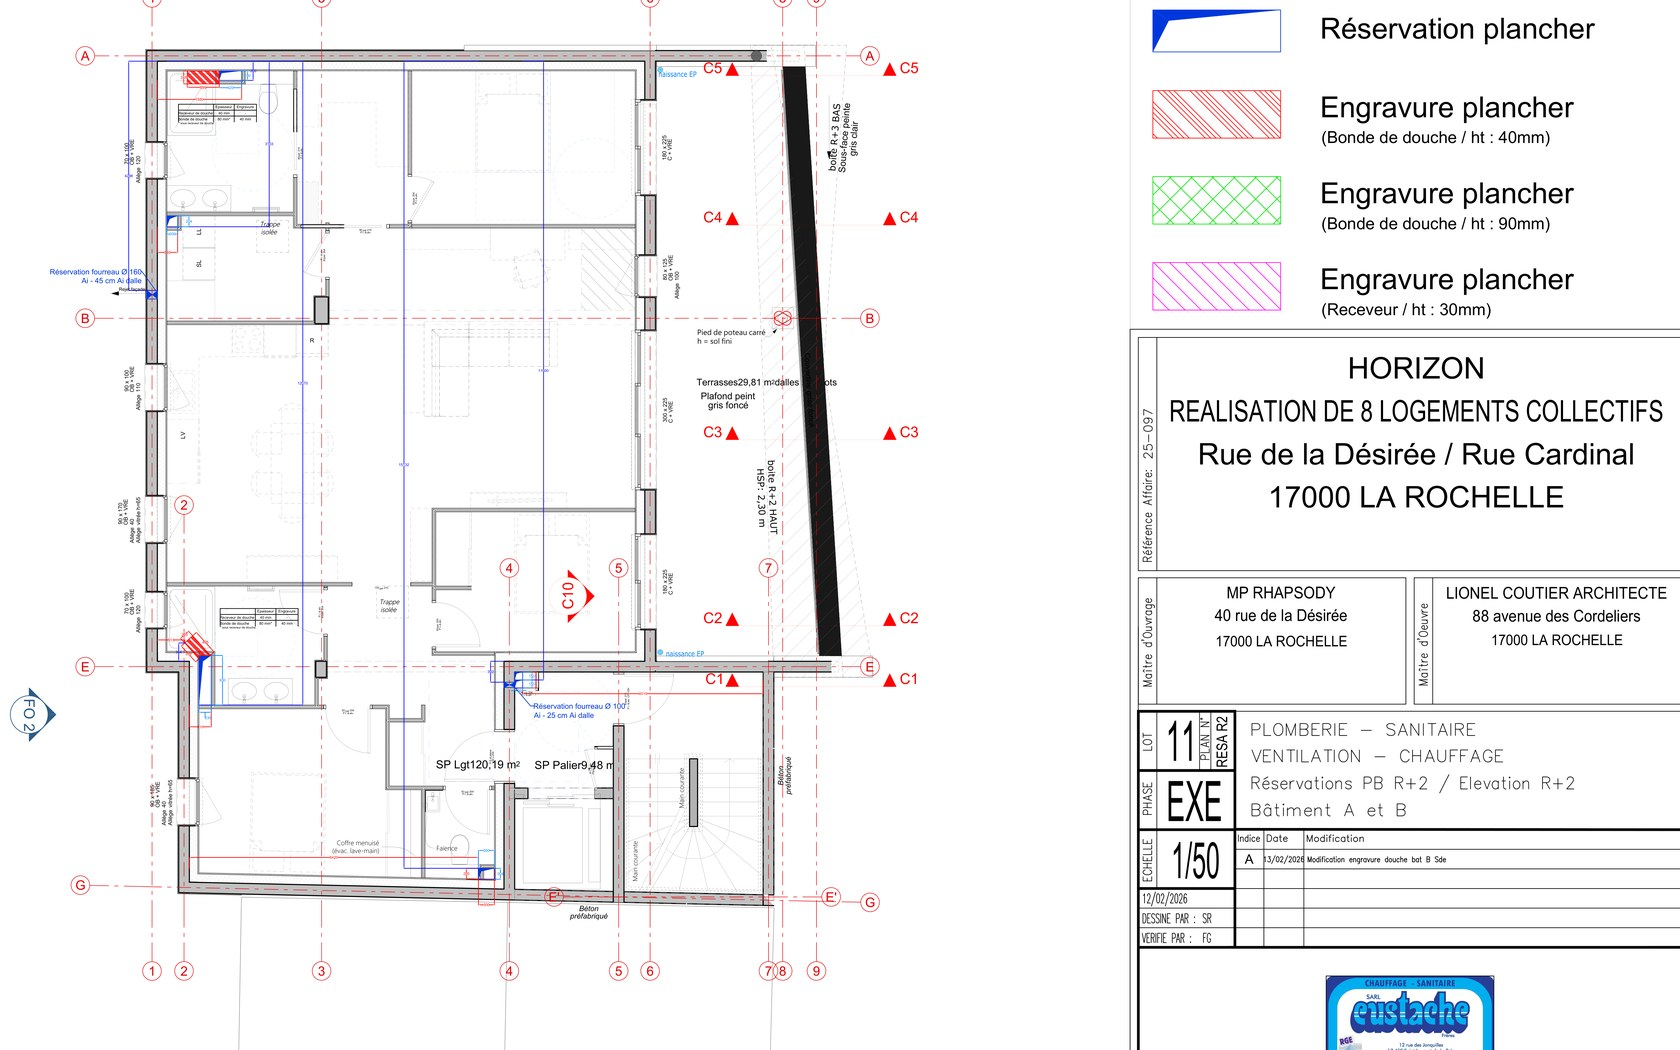
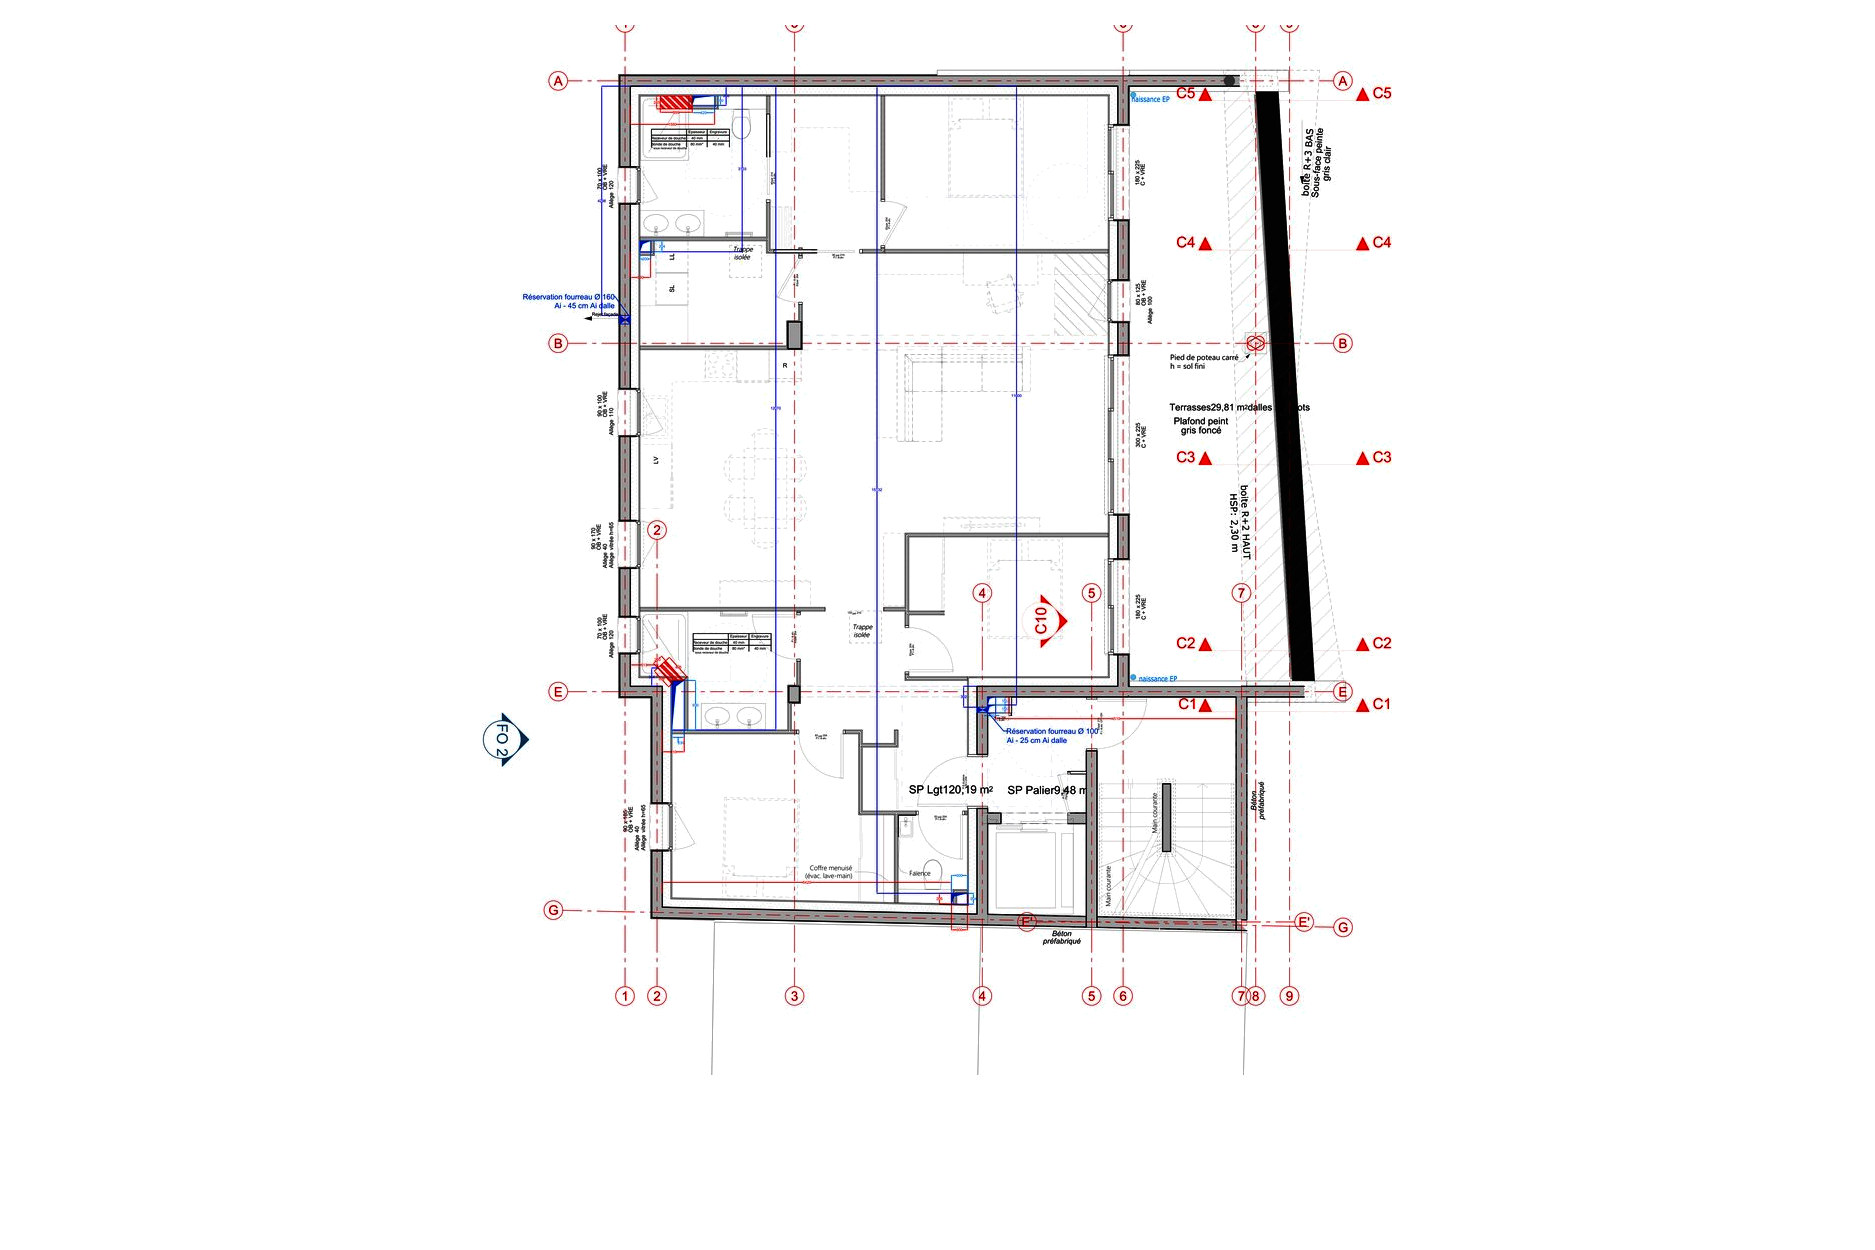
content(references): publie le plan d'Horizon sans son cartouche
L'image en ligne laissait lire le cartouche complet du plan : référence
d'affaire 25-097, nom et adresse du maître d'ouvrage, nom et adresse de
l'architecte, initiales du dessinateur et du vérificateur, et le logo
d'un installateur tiers. C'est l'un des trois cas relevés par
l'inventaire du 2026-08-09, qui prescrit de recadrer un extrait de plan
hors cartouche. Le nouveau fichier est le plan technique seul : plus rien
du bloc-titre ne s'y trouve.

Gamma 2,0 avant cadrage. Le fichier source est une rastérisation à 967 px
d'un plan au 1/50 : ses traits fins sont déjà fondus vers le blanc — le
lavande des réservations ressort à 202 de gris, invisible sur le voile —
et la réduction à 581 px les achevait. Le réglage porte la matière encrée
de 0,90 % à 2,84 % des pixels. C'est un réglage de niveaux, il ne touche
pas au contenu du dessin.

Cadre 1875 x 1250, dessin posé à l'échelle native 1:1 : un plan à traits
fins ne se rééchantillonne pas sans perte. Le dessin occupe les 84 %
supérieurs du cadre, la réserve basse laissant le cartouche de légende se
poser dans le voile libre.

L'alt est réécrit : le nouveau fichier n'a plus le bloc de légende des
trois hauteurs d'engravure que l'ancien décrivait.

01-recadre.jpg de cette fiche est supprimé — jamais câblé (le frontmatter
a toujours pointé sur 01.jpg), et remplacé par mieux : il amputait le
bâtiment pour échapper au cartouche, là où la nouvelle source n'en a pas.
[…]

diff --git a/src/content/projets/exe-residence-horizon-mediatim.md b/src/content/projets/exe-residence-horizon-mediatim.md
@@ -15,7 +15,7 @@ synthese: >-
   À l’angle de la rue de la Désirée et de la rue Cardinal, à La Rochelle, la résidence Horizon réunit deux bâtiments en R+4 de quatre logements superposés — huit appartements, 864 m² habitables, conformes à la RE2020. FT2E y tient un rôle particulier : le bureau n’est pas missionné par le promoteur, mais par l’installateur. Pour Eustache Frères, titulaire du lot chauffage-ventilation-plomberie, la mission couvre les déperditions, les plans de réservations et les plans d’exécution avec leurs notes de calcul. Les étages portent sur des planchers bois : rien ne se perce après coup, tout se réserve au dessin. Quinze diffusions jalonnent la mission, de janvier à avril 2026.
 mission_ft2e: ["Études d'exécution", Thermique, CVC]
 image_principale: "/images/projets/exe-residence-horizon-mediatim/01.jpg"
-image_principale_alt: "Extrait du plan d’exécution FT2E des réservations de plancher du R+2 de la résidence Horizon à La Rochelle : tracé des logements des bâtiments A et B, repères d’engravures pour bondes de douche et receveurs, et légende des trois hauteurs d’engravure"
+image_principale_alt: "Plan d’exécution FT2E des réservations de plancher du R+2 de la résidence Horizon à La Rochelle : tracé des logements sur une trame d’axes repérés, réservations de fourreaux cotées par rapport à la dalle, et zones d’engravure hachurées aux abords des salles d’eau"
 en_avant: false
 ---
 
